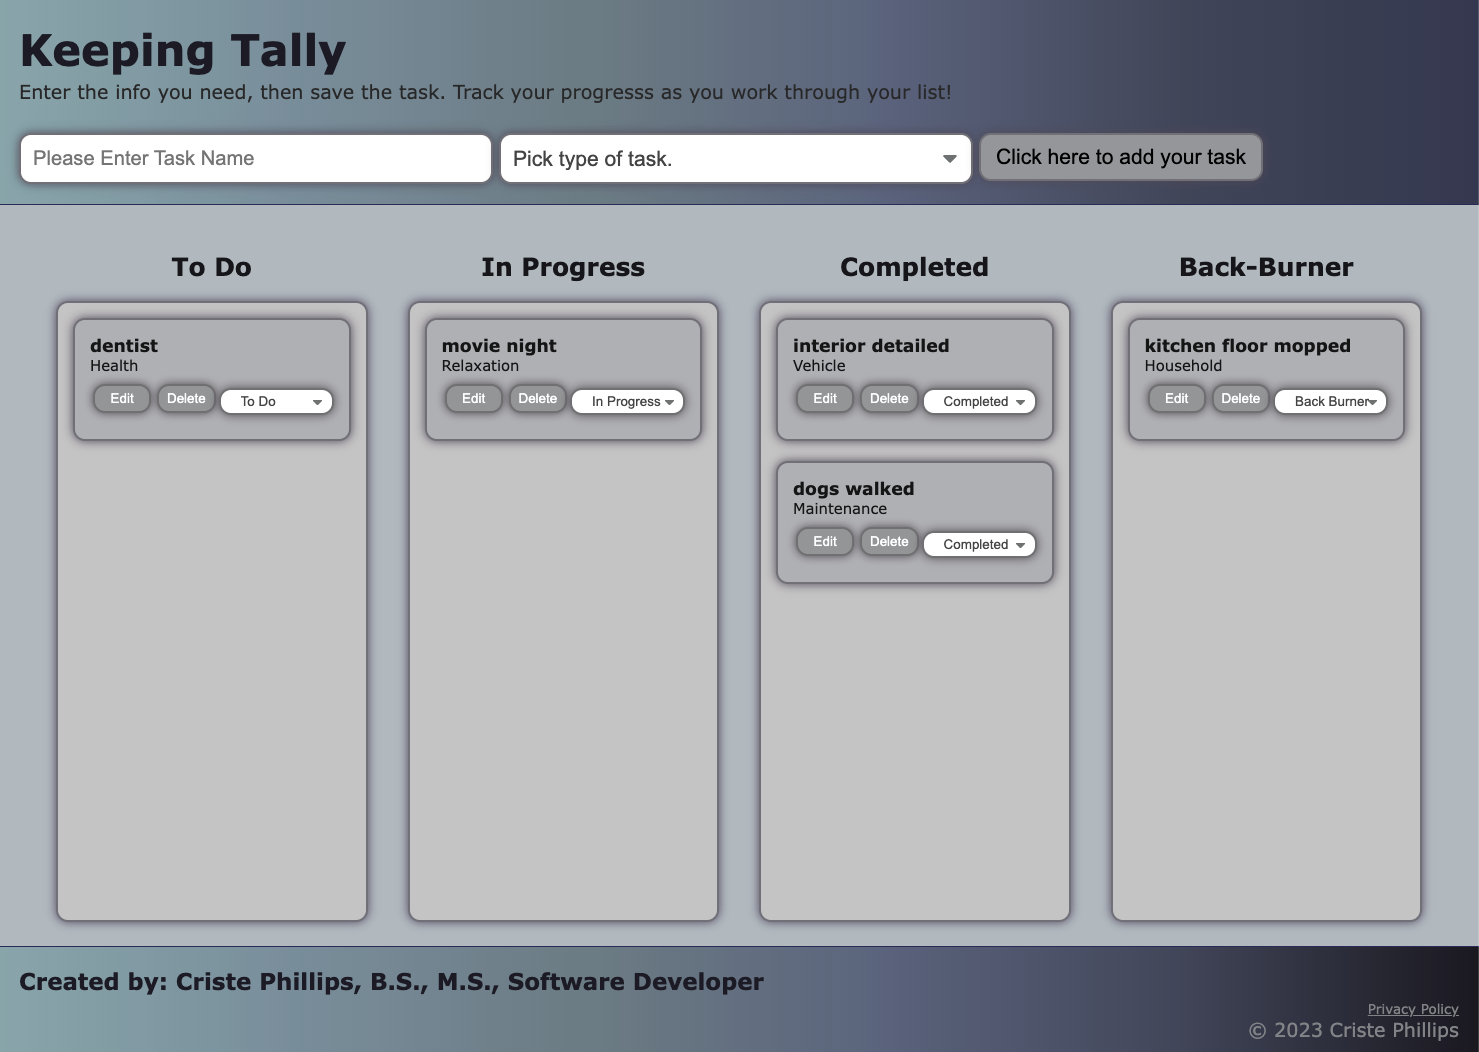
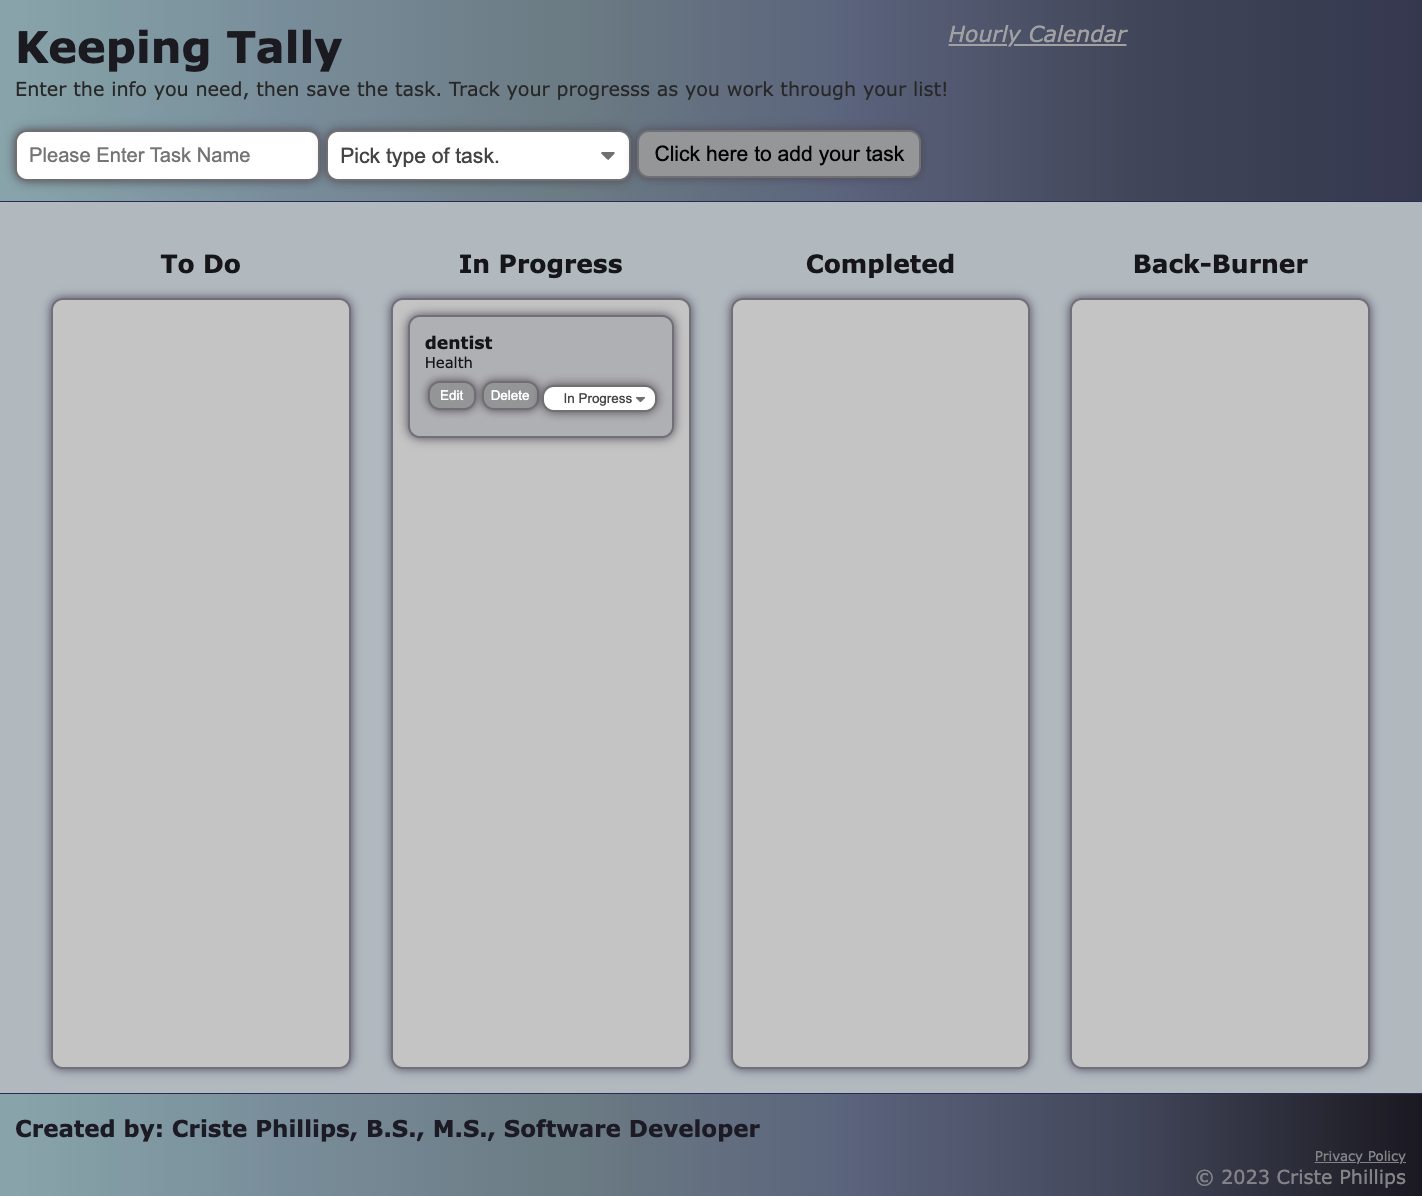
readme updated with new images, extraneous JS functionality removed, css changes made

Changed region(s): [[0.0, 0.0, 1.0, 0.9734], [0.8354, 0.943, 0.9902, 1.0], [0.6807, 0.0, 0.8045, 0.0608]]

diff --git a/assets/js/calendar.js b/assets/js/calendar.js
@@ -3,31 +3,6 @@ const currentDate = document.getElementById("currentDate");
     // display current date & time using moment.js 
     currentDate.textContent = moment().format('MMM Do YYYY, h:mm:ss a');
 
-// calendar row color functionality
-function colorChange() {
-   let hour = moment().hour();
-
-    // jquery variable used for each time-block class
-    $(".time-block").each(function() {
-        var rowHour = parseInt($(this).attr("id").split("-")[1]);
-
-        // evaluate rowHour, apply color based on past, prestent, or future class;
-        if (rowHour < hour) {
-            $(this).addClass("past");     // row will be gray
-        } else if (rowHour === hour) {
-            $(this).addClass("present");
-            $(this).removeClass("past");
-            $(this).removeClass("future");
-        } else {
-            $(this).addClass("future");
-            $(this).removeClass("past");
-            $(this).removeClass("present");
-        }
-
-    });
-}
-colorChange();
-
 // save key / value to to local Storage
 $(".saveBtn").on("click", function () {
     let saveKey = $(this).parent().attr("id");

diff --git a/privacy-policy.html b/privacy-policy.html
@@ -6,7 +6,6 @@
     <meta http-equiv="X-UA-Compatible" content="IE=edge">
     <meta name="viewport" content="width=device-width, initial-scale=1.0">
     <title>Keeping Tally Privacy Policy</title>
-    <link rel="stylesheet" href="./assets/css/style.css">
     <link rel="stylesheet" href="./assets/css/media-queries.css">
     <link rel="stylesheet" href="./assets/css/privacy-policy.css">
    
@@ -15,7 +14,11 @@
         <h1>Keeping Tally</h1>
         <nav>          
             <a href="index.html#home">Home</a>
+            <br>
+            <br>
+            <a href="calendar.html#calendar">Hourly Calendar</a>
         </nav>
+  
     </header>
     <section class="hero">
         <h2 class="page-title">Privacy Policy</h2>

diff --git a/assets/css/calendar.css b/assets/css/calendar.css
@@ -54,6 +54,7 @@ header h3 {
 
 .clock {
   padding-right: 1.5%;
+  padding-left: 0.5%;
   font-size: 15px;
   color: rgb(35, 49, 160);
 }
@@ -69,6 +70,7 @@ header h3 {
   box-shadow: 0 0 10px rgb(136, 0, 255);
   background-color:  rgb(216, 211, 211);
 }
+
 
 .saveBtn {
   margin: 0 0 1% 2.5%;

diff --git a/assets/css/style.css b/assets/css/style.css
@@ -54,11 +54,11 @@ form {
   flex-wrap: wrap;
 }
 
-header nav {
+header nav a {
   font-size: 22px;
   font-style: italic;
-  color: rgb(35, 49, 160);
- }
+  color: rgb(166, 158, 177);
+}
 
 header nav a:hover{
   color: rgb(229, 220, 242);

diff --git a/assets/css/privacy-policy.css b/assets/css/privacy-policy.css
@@ -36,7 +36,7 @@ header nav a {
   font-size: 30px;
   font-style: italic;
   color: rgb(35, 49, 160);
-}
+ }
 
 header nav a:hover {
   color: rgb(229, 220, 242);

diff --git a/README.md b/README.md
@@ -16,6 +16,16 @@ When user mouses over the 'delete' button, the font color changes to indicate th
 
 When user toggles the drop down menu within the saved list item, user is presented with options to select 'To Do', 'In Progress', 'Completed', or 'Back Burner'.  By Selecting an alternative to the currently selected option, the list item is shifted to the newly designated column.
 
+When user selects 'Hourly Calendar' on landing page, user is taken to the calendar page, where user is able to Take specific notes for each time slot to help organize day.
+
+When user selects 'save', task description entered by user will be saved as typed into the alloted time slot.
+
+When user selects 'home' at top of page, user is taken back to original landing page.
+
+When user selects 'privacy policy' in footer, user is taken to a mock-up for a privacy policy.
+
+
+
 ## Built With
 * HTML
 * CSS
@@ -30,6 +40,14 @@ https://github.com/cphill11/keeping-tally.git
 
 ## Image: 
 ![Screenshot](assets/images/screenshot.png)
+
+
+## Image of Calendar page:
+![Screenshot](assets/images/calendarScreenshot.png)
+
+
+## Image of Privacy Policy page:
+![Screenshot](assets/images/privacyPolicyScreenshot.png)
 
 ## Contribution
 Criste Phillips.  Sticky paws off unless permitted by creator.
